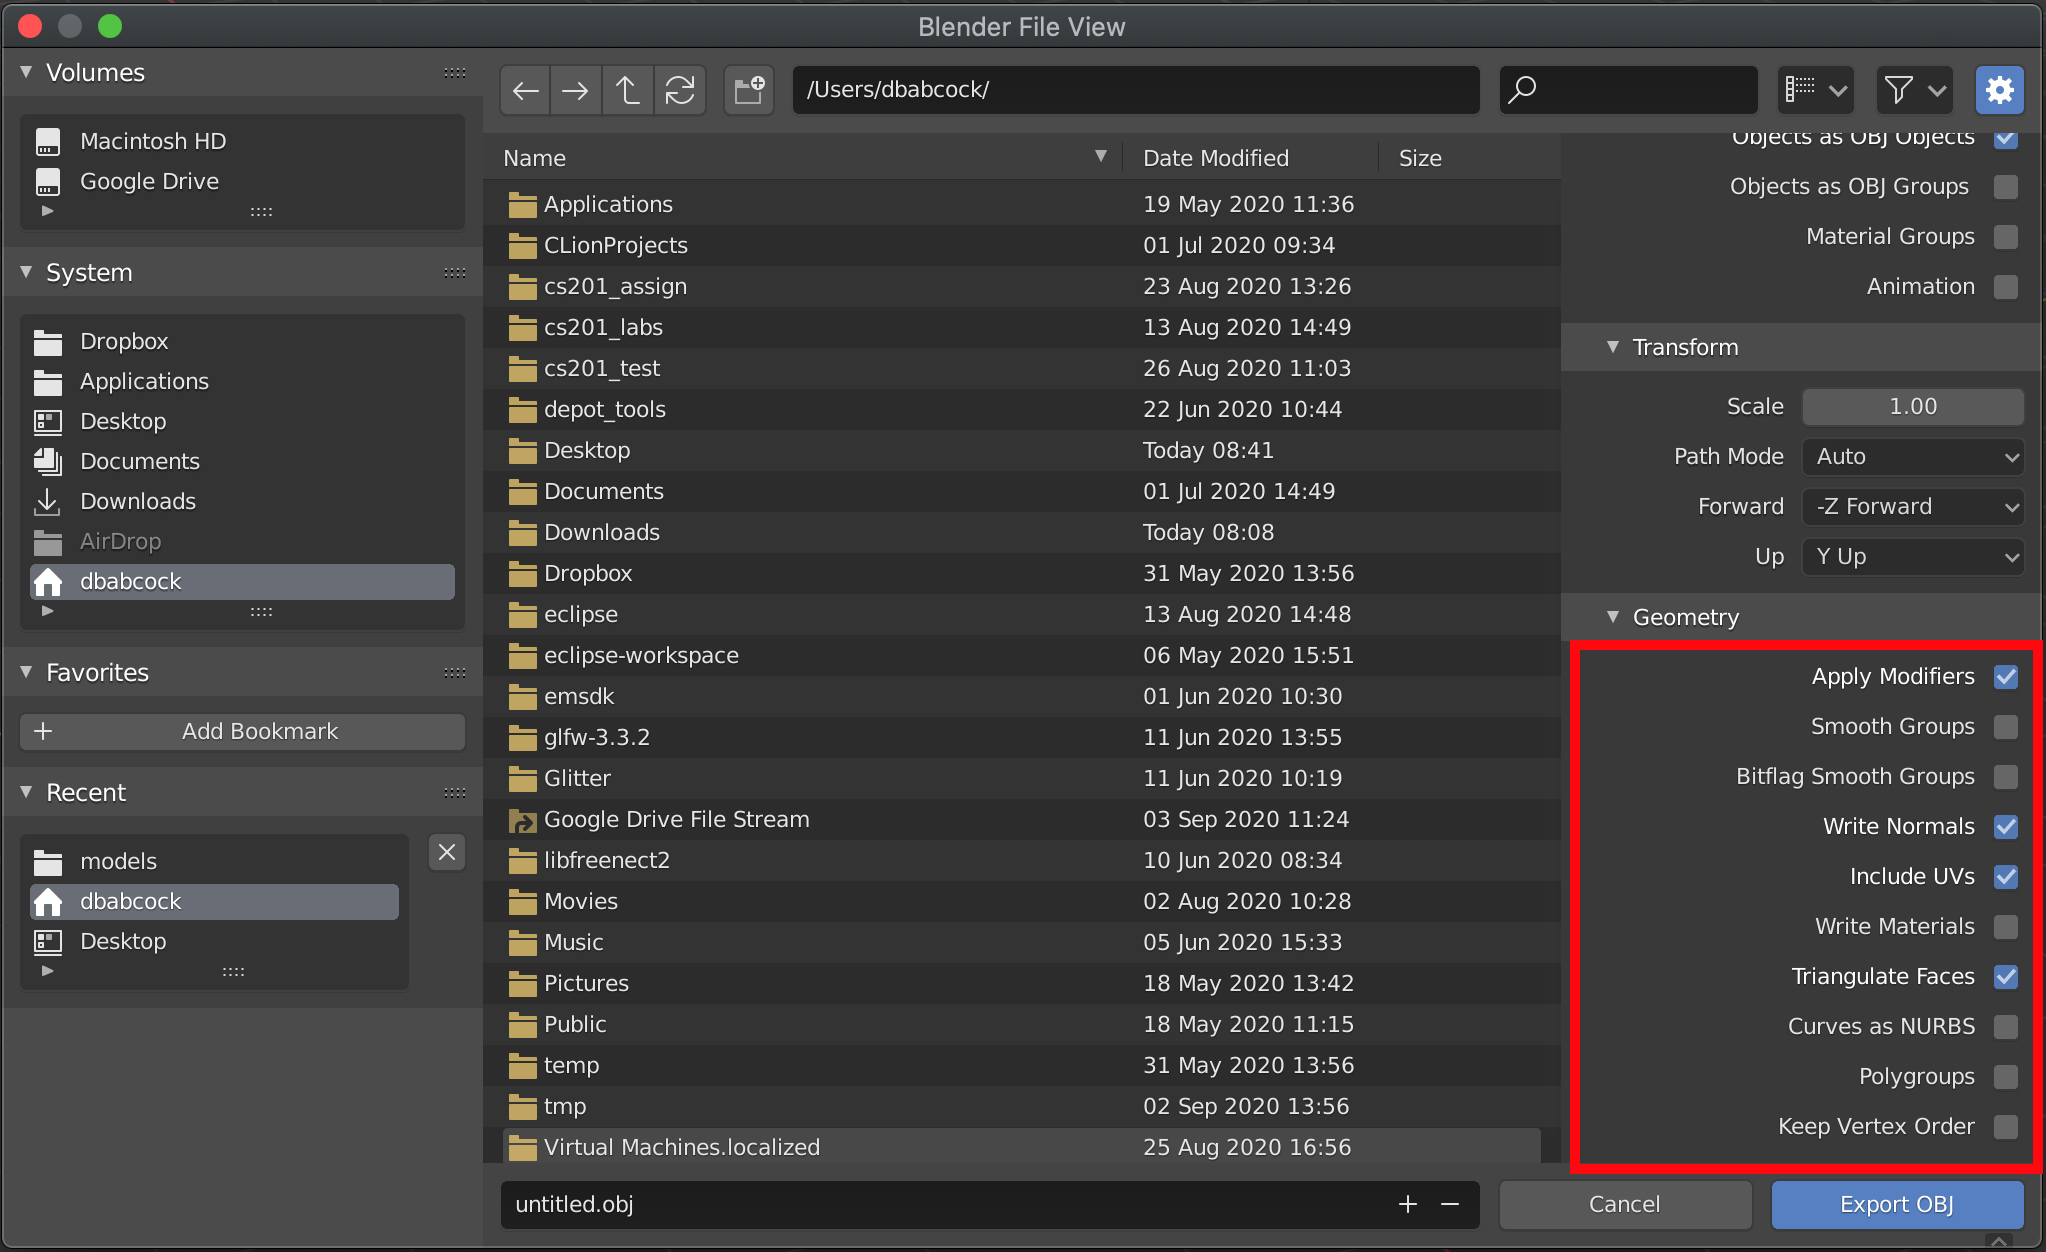
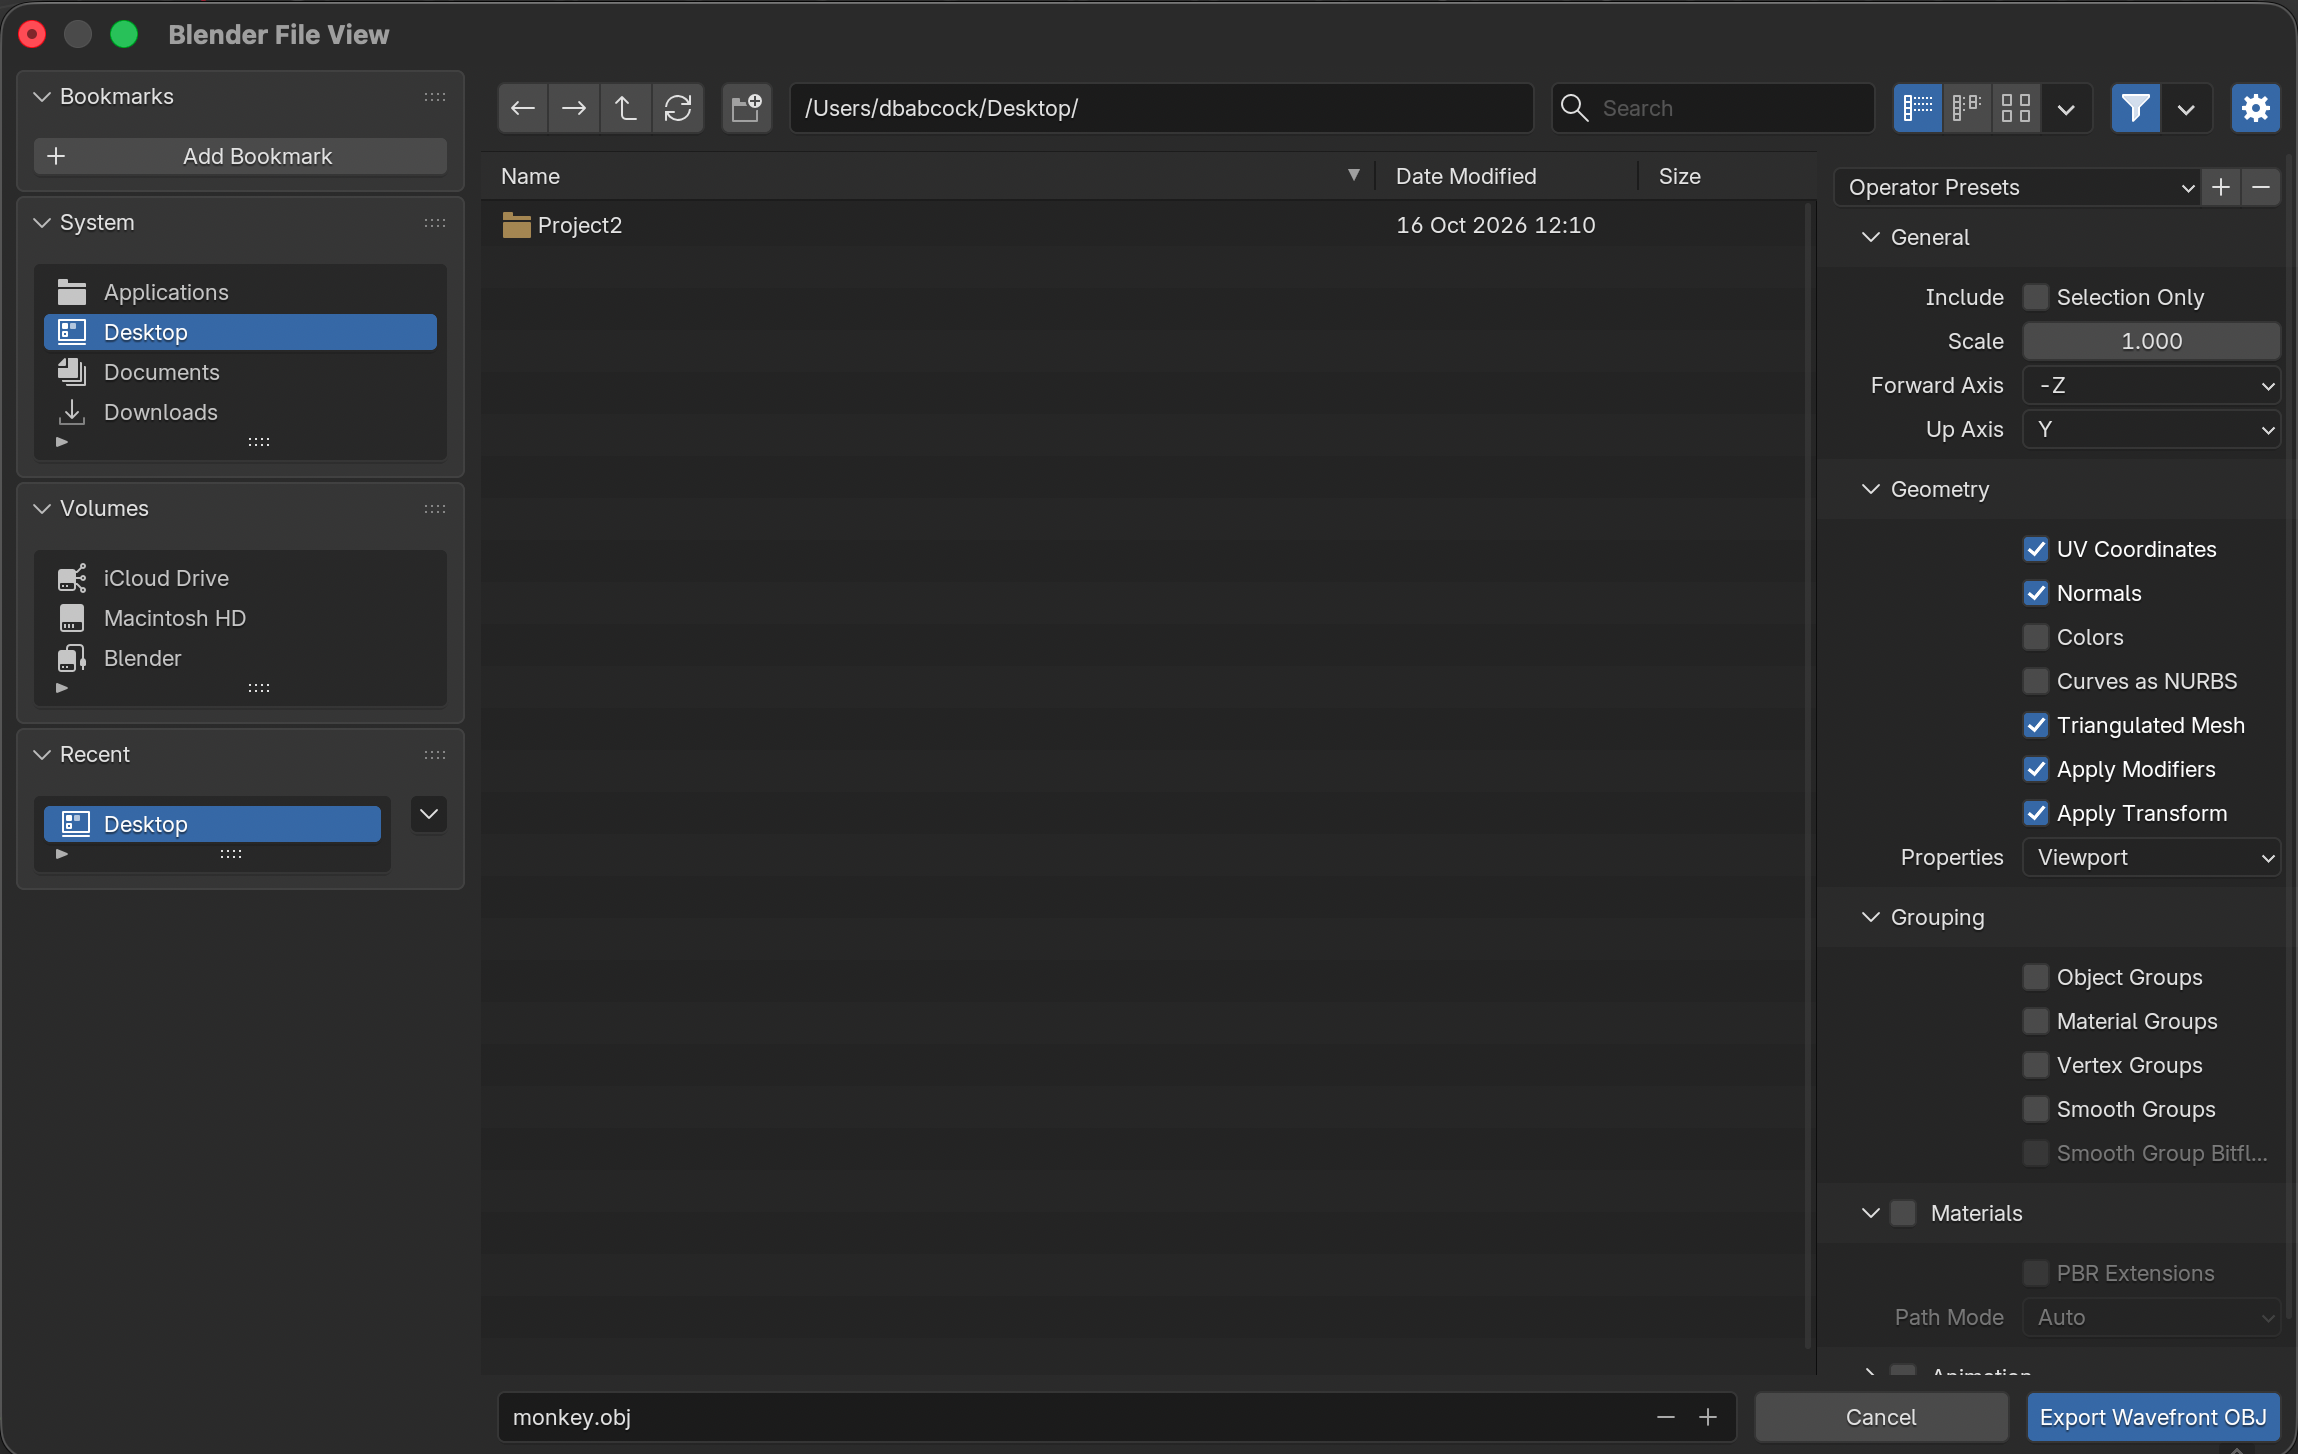
update blender
update blender

diff --git a/labs/lab12.md b/labs/lab12.md
@@ -51,7 +51,7 @@ Then to add a new mesh (at the origin) simply hit \<Shift\>-A which should pop u
 
 After the mesh has been added, there may be a dialog box in the lower left portion of the main window that will allow configuration of the added mesh typically including the default size, location, and orientation.
 
-Some additional meshes can be obtained by choosing **Edit->Preferences->Add-ons->Add Mesh: Extra Objects** from the menu bar.
+Some additional meshes can be obtained by choosing **Edit->Preferences->Get Extensions->Extra Mesh Objects** from the menu bar.
 
 ### Multiple Meshes
 
@@ -71,15 +71,19 @@ You can also combine several meshes together, which is necessary for our model l
 
 - In the configuration dialog, change the size to 3 m.
 
-- In the configuration dialog, rotate about the x-axis by 90 degrees (since the default orientation is with the z-axis being up).
-
 ## Exporting a Mesh
 
-To export the mesh, from the menu bar select **File->Export->Wavefront (.obj) (legacy)**
+To export the mesh, from the menu bar select **File->Export->Wavefront (.obj)**
 
 > <img src="images/lab12/BlenderExport.png" alt="Blender Export Window" height="400"/>
 
-Select the location where you want to export the file and the name for the file. In the lower right panel, make sure in the Transform tab that Up is set to **Y up**. Then expand the Geometry tab and make sure the selections match the figure below, i.e. only **Apply Modifiers**, **Write Normals**, **Include UVs**, and **Triangulate Faces** are checked, i.e. **UNCHECK** **Write Materials**. This will produce a file that can be imported by the basic model loader we are using.
+In the left-hand pane, select the location where you want to export the file and enter the name at the bottom. In the right panel, make sure:
+
+-  In the **General** tab, make sure **Up Axis** is set to **Y**. (You may also want to adjust **Forward Axis** as desired.)
+
+- In the **Geometry** tab, make sure the selections match the figure below, i.e. **UV Coordinates** (for texture coordinates), **Normals** (for lighting), **Triangulated Mesh** (to tesselate using triangles), **Apply Modifiers**, and **Apply Transform** are checked.
+
+- **UNCHECK** **Materials** otherwise the file will not import properly with the basic model loader we are using.
 
 > <img src="images/lab12/BlenderSettings.png" alt="Blender Settings Window" height="300"/>
 
@@ -105,6 +109,6 @@ At this point you should see a cube and Blender monkey with lighting.
 
 To quit the program simply close the window.
 
-Congratulations, you have now created a simple model in a modeling program and imported it into an application.
+Congratulations, you have now created a simple model in a modeling program and imported it into an application. You may want to try to make more complicated models that combine several meshes together, e.g. put a cone on top of the monkey.
 
 Next we will greatly enhance the visual appearance of our objects using texture mapping.
